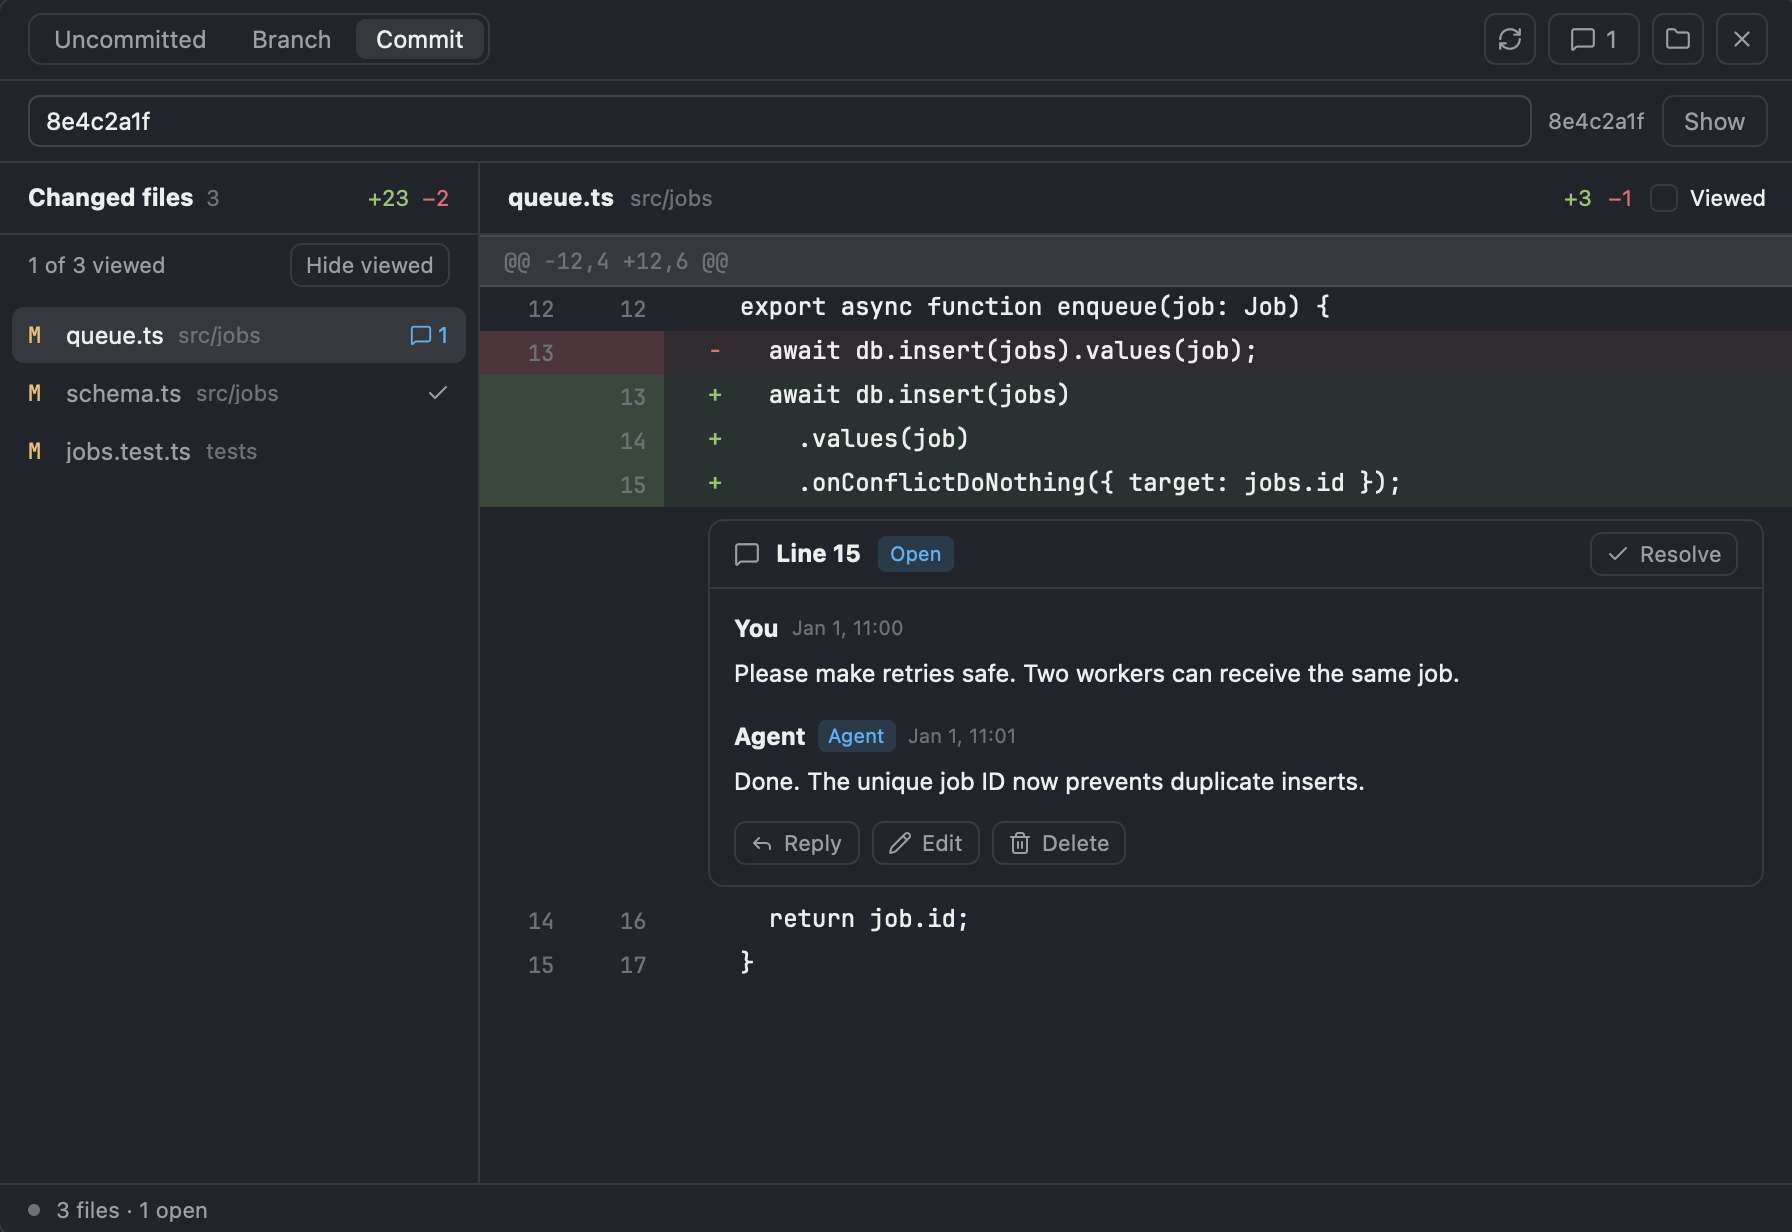
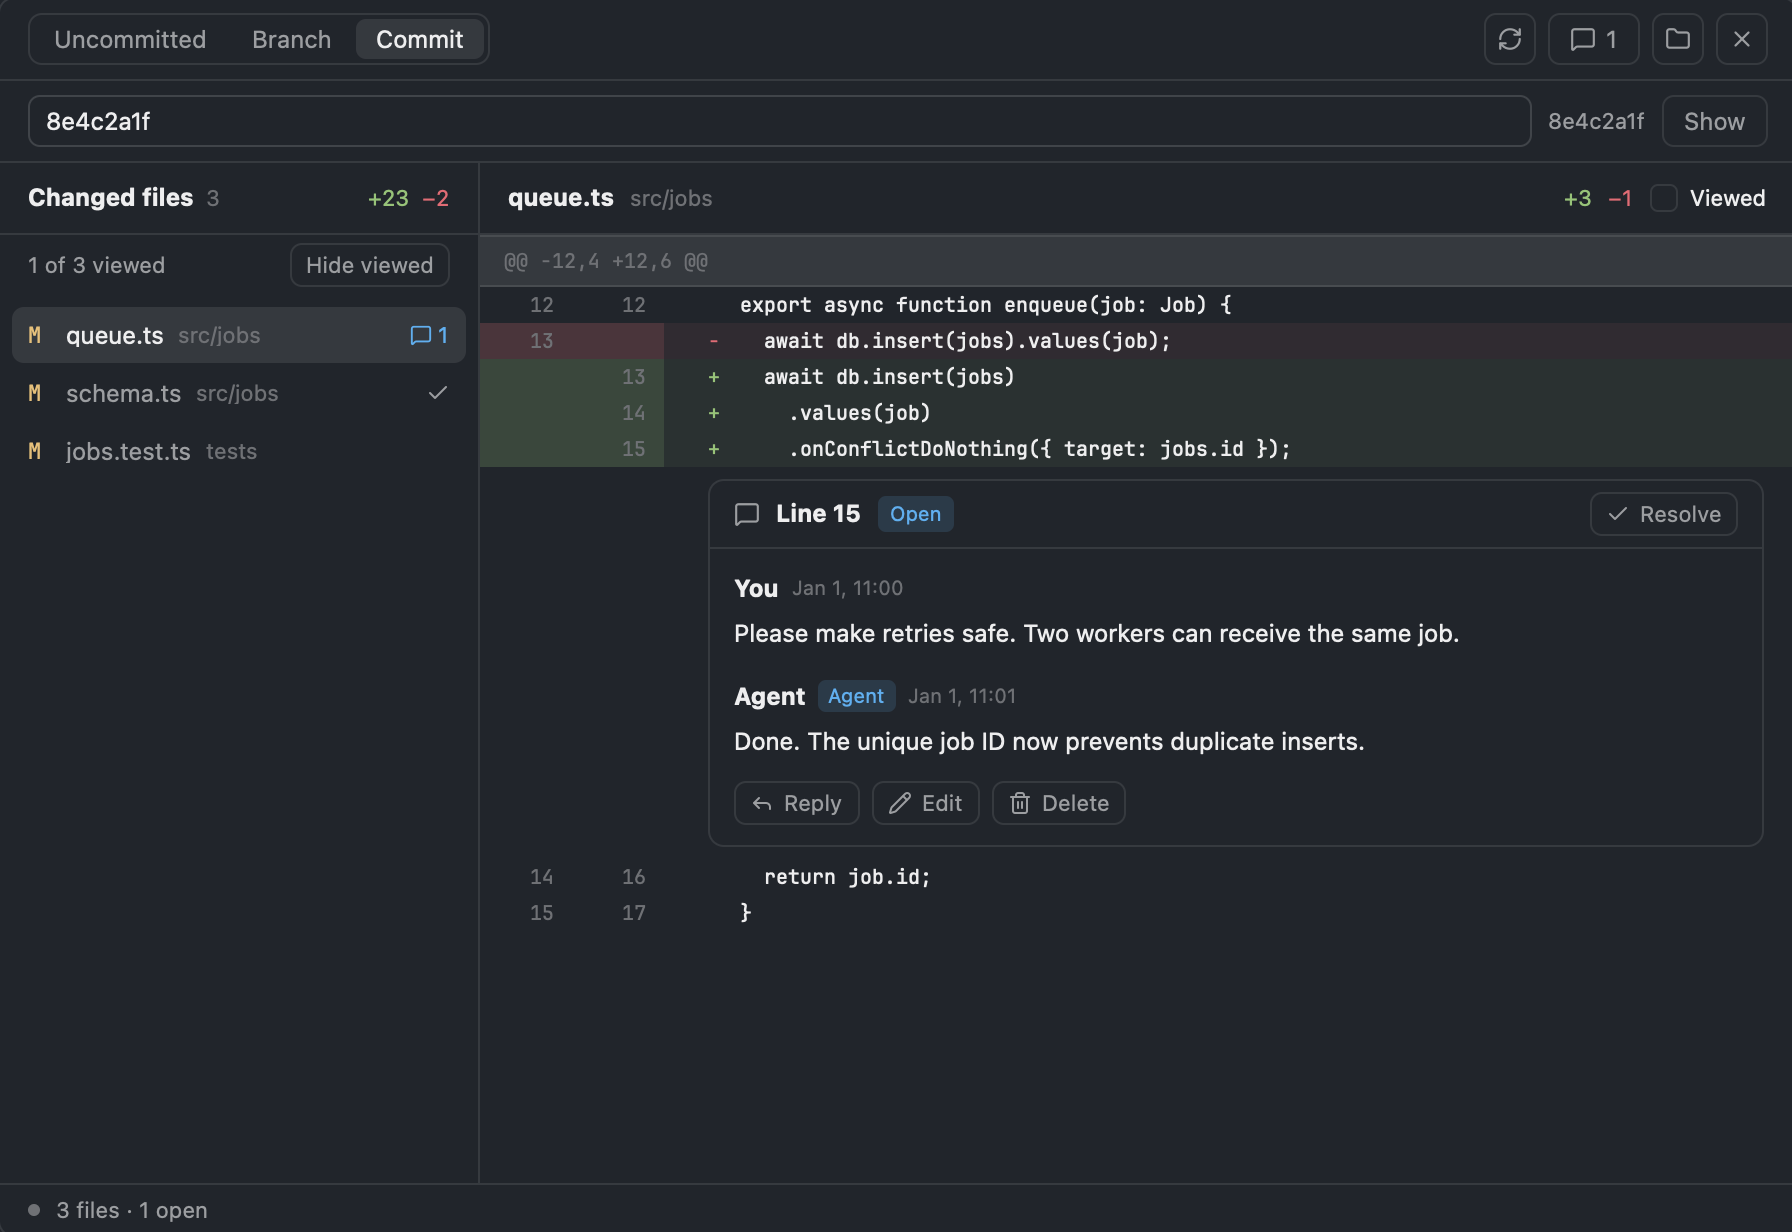
Follow Herdr code font settings in diffs

diff --git a/mods/Codewalker/main.js b/mods/Codewalker/main.js
@@ -21,7 +21,7 @@ const REVIEW_DOCK = { panel: "panel", stack: "panel-body", child: "review" };
 const panelExpander = dockExpand({ layout, run, shared, setShared });
 // Icons are Lucide (ISC), written by scripts/lucide_icons.py; see icons/LICENSE.
 // Diff columns: old and new line numbers, the hover comment button, the +/− sign.
-const MARK_W = 22, SIGN_W = 16, ROW_H = 22;
+const MARK_W = 22, SIGN_W = 16;
 // Docked beside the agent, Review stacks files above the diff. Wider, they sit side by side.
 const SPLIT_W = 760, COMPACT_W = 560;
 
@@ -1350,20 +1350,22 @@ export default class Codewalker extends View {
   }
 
   diffRow(row, index, marked, live) {
-    const t = theme(), mono = settings().font_family, minus = row.kind === "-", plus = row.kind === "+";
-    if (row.kind === "@") return h_flex().id(`hunk-${index}`).h(26).px(12).items_center().bg(t.raised).border_y(1).border_color(t.border)
-      .font_family(mono).text_size(11).text_color(t.dim).child(div().truncate().child(row.text));
+    const t = theme(), look = settings(), mono = look.font_family, fontSize = look.font_size ?? 12;
+    // Follow Herdr's live code size; leave room for the 16px hover button and larger fonts.
+    const rowH = Math.max(18, Math.ceil(fontSize * 1.5)), minus = row.kind === "-", plus = row.kind === "+";
+    if (row.kind === "@") return h_flex().id(`hunk-${index}`).h(Math.max(26, rowH)).px(12).items_center().bg(t.raised).border_y(1).border_color(t.border)
+      .font_family(mono).text_size(fontSize).text_color(t.dim).child(div().truncate().child(row.text));
     const tone = plus ? t.ansi2 : minus ? t.ansi1 : null, hovered = live && !this.drag && this.hoverRow === index;
-    const number = (side, line) => div().id(`line-${index}-${side}`).w(this.cols.num).h(ROW_H).flex_none().flex().items_center().justify_end().pr(this.cols.num > 40 ? 8 : 5)
-      .text_size(11).text_color(marked ? t.foreground : t.dim)
+    const number = (side, line) => div().id(`line-${index}-${side}`).w(this.cols.num).h(rowH).flex_none().flex().items_center().justify_end().pr(this.cols.num > 40 ? 8 : 5)
+      .text_size(fontSize).text_color(marked ? t.foreground : t.dim)
       .when(live, el => el.cursor_pointer().hover(s => s.text_color(t.foreground)))
       .on_mouse_down("left", (event, cx) => { cx.stop_propagation(); if (live) this.pressLine(index, side, event, cx); })
       .child(line ? String(line) : "");
-    const comment = div().id(`comment-${index}`).w(MARK_W).h(ROW_H).flex_none().flex().items_center().justify_center()
+    const comment = div().id(`comment-${index}`).w(MARK_W).h(rowH).flex_none().flex().items_center().justify_center()
       .on_mouse_down("left", (event, cx) => { cx.stop_propagation(); if (live) this.pressLine(index, lineOf(row, "new") ? "new" : "old", event, cx); })
       .when(hovered, el => el.cursor_pointer().child(div().size(16).rounded(4).flex().items_center().justify_center().bg(t.accent)
         .child(svg(ICON.plus).size(11).text_color(t.accent_foreground))));
-    return h_flex().id(`row-${index}`).min_h(ROW_H).items_stretch().font_family(mono).text_size(12)
+    return h_flex().id(`row-${index}`).min_h(rowH).items_stretch().font_family(mono).text_size(fontSize).line_height(`${rowH}px`)
       .bg(marked ? tint(t.accent, 0x24) : tone ? tint(tone, 0x14) : t.background)
       .when(live && !marked, el => el.hover(s => s.bg(tone ? tint(tone, 0x26) : t.hover)))
       .when(live, el => el.on_hover((inside, cx) => this.hoverLine(index, inside, cx)))

diff --git a/RECIPE.md b/RECIPE.md
@@ -11,7 +11,7 @@ The mod uses Herdr's theme and installed UI/code fonts. It is a full-height nati
 - **Toolbar:** Uncommitted, Branch, and Commit segments, then Refresh, Discussions, and Change folder icons. Send appears when there are unsent or uncertain comments. An overlay also offers Close. In a supported docked panel, Expand/Restore is the trailing-most action. There is no separate title row. Standard controls are 26px high, small ones 22px; text is mostly 12–13px, with 11px metadata.
 - **Comparison input:** Branch adds a local base-ref field and Compare. Commit adds a SHA/ref field, Show, and the resolved short SHA. Comparison details are in tooltips. Folder entry appears on request or when no checkout is connected.
 - **Changed files:** paths, change status, optional line counts, discussion count, viewed checkmarks, and an explicit **n of m viewed** row with Hide viewed / Show all. Retained discussions and saved drafts remain accessible below changed files.
-- **Diff:** file header with Viewed, Git old/new line numbers, added/deleted line backgrounds, and inline discussion cards. Hover reveals a comment button. Binary, oversized, and special-file changes have an explanation rather than fake lines. Empty-state padding is 14px horizontally and 12px vertically.
+- **Diff:** file header with Viewed, Git old/new line numbers, added/deleted line backgrounds, and inline discussion cards. Code, line numbers, and hunk labels follow Herdr's live code font family and size (`settings().font_family` / `font_size`, with a 12px size fallback). Line height and minimum row height are the greater of 18px or 1.5× the font size rounded up; gutters and comment targets share that height. Wrapped code keeps the same leading. Hunk headers are at least 26px high and grow with larger code fonts. Hover reveals a comment button. Binary, oversized, and special-file changes have an explanation rather than fake lines. Empty-state padding is 14px horizontally and 12px vertically.
 - **Discussion cards:** original location, open/resolved state, authors, timestamps, Markdown messages, Reply, and author-only Edit/Delete. A new comment can request a short reply; unresolved requests show Awaiting reply. Resolve is in the card header. Stale discussions keep their original code evidence.
 - **Composer:** a multiline editor that grows from three to seven rows, local draft status, Ask for a short reply, Discard, and Comment/Reply. It can appear inline or below the visible lines when its anchor is outside the page.
 - **Discussions view:** all threads grouped by file, with All/Open/Awaiting filters and Show in diff. **Send view:** agent picker, optional note, exact message preview, and explicit Send.
